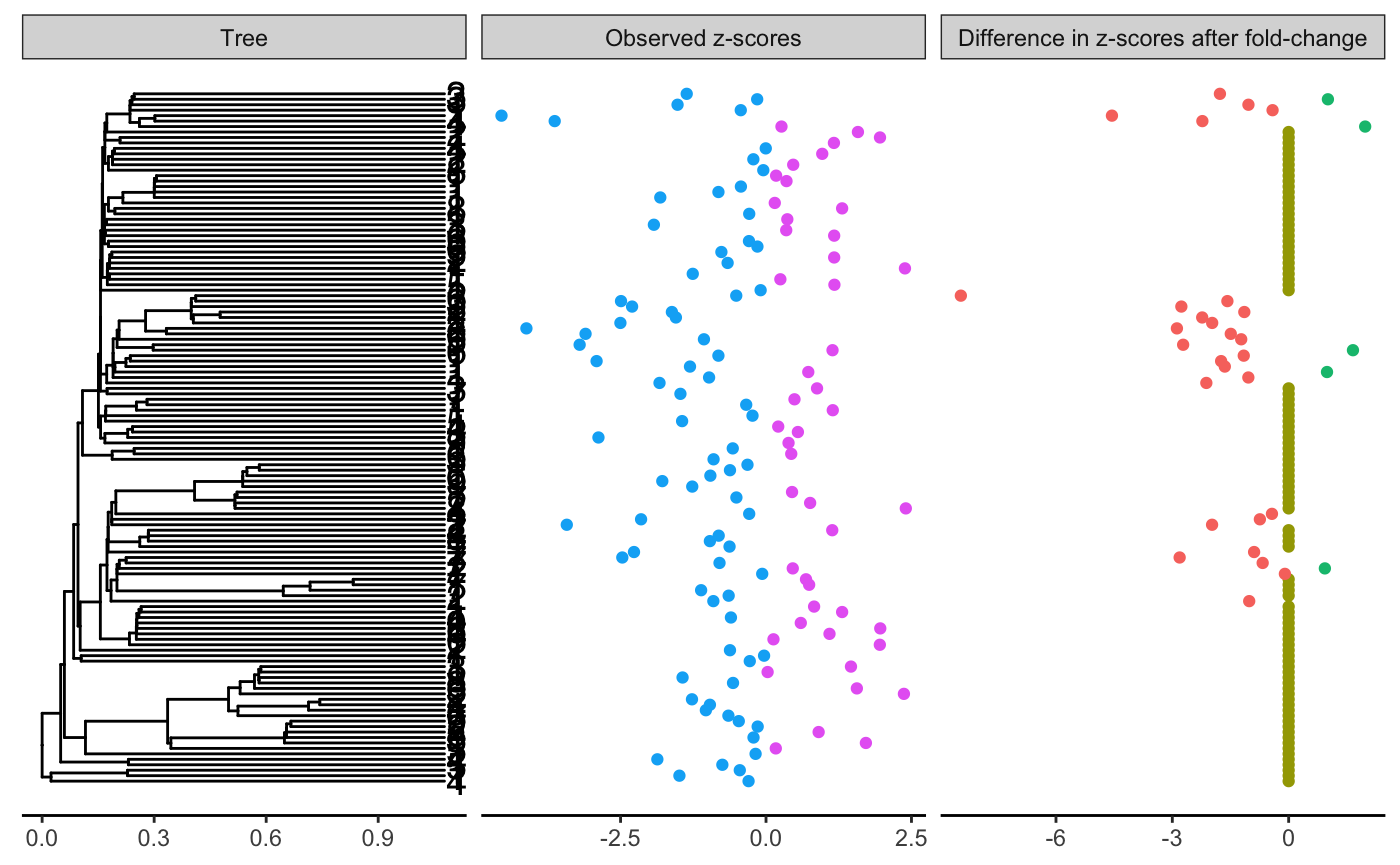
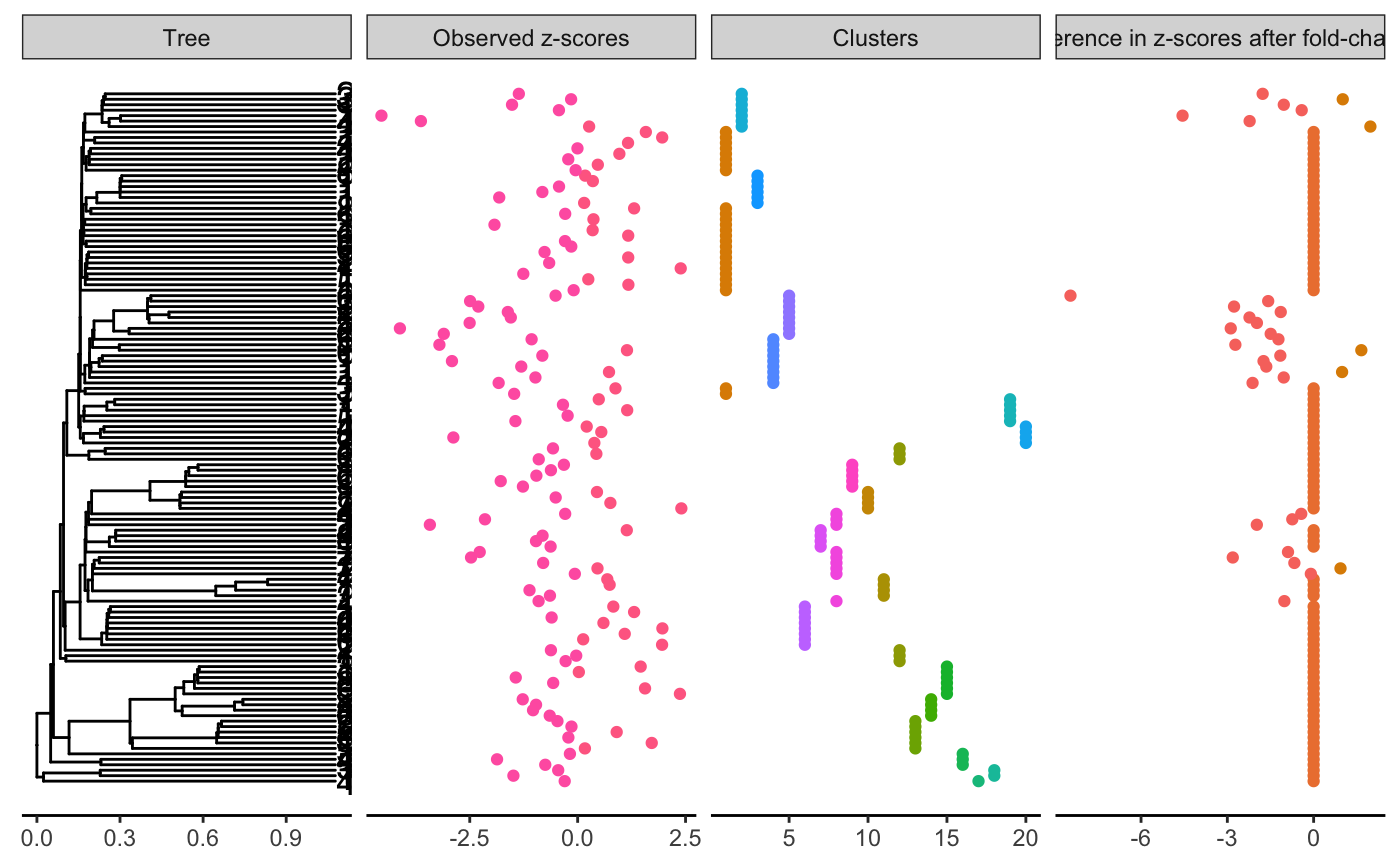
Use new functions

diff --git a/inst/docs/articles/simulations.html b/inst/docs/articles/simulations.html
@@ -323,9 +323,7 @@
 <a class="sourceLine" id="cb18-3" data-line-number="3"><span class="kw"><a href="../reference/plot_shifts.html">plot_shifts</a></span>(tree, <span class="dt">shifts =</span> <span class="ot">NA</span>, <span class="dt">obs_scores =</span> zscores_original)</a>
 <a class="sourceLine" id="cb18-4" data-line-number="4"><span class="co">#&gt; Warning: Removed 253 rows containing missing values (geom_label).</span></a></code></pre></div>
 <p><img src="simulations_files/figure-html/pvalueswofoldchange-1.png" width="700" style="display: block; margin: auto;"></p>
-<div class="sourceCode" id="cb19"><pre class="sourceCode r"><code class="sourceCode r"><a class="sourceLine" id="cb19-1" data-line-number="1">D &lt;-<span class="st"> </span><span class="kw"><a href="https://rdrr.io/r/stats/cophenetic.html">cophenetic</a></span>(tree)</a>
-<a class="sourceLine" id="cb19-2" data-line-number="2">obj &lt;-<span class="st"> </span>cluster<span class="op">::</span><span class="kw"><a href="https://rdrr.io/pkg/cluster/man/pam.html">pam</a></span>(D, <span class="dv">20</span>)</a>
-<a class="sourceLine" id="cb19-3" data-line-number="3">clustering &lt;-<span class="st"> </span>obj<span class="op">$</span>clustering</a></code></pre></div>
+<div class="sourceCode" id="cb19"><pre class="sourceCode r"><code class="sourceCode r"><a class="sourceLine" id="cb19-1" data-line-number="1">clustering &lt;-<span class="st"> </span><span class="kw"><a href="../reference/create_clusters.html">create_clusters</a></span>(tree, <span class="dt">N_clusters =</span> <span class="dv">20</span>, <span class="dt">method =</span> <span class="st">"paraphyletic"</span>)</a></code></pre></div>
 <div class="sourceCode" id="cb20"><pre class="sourceCode r"><code class="sourceCode r"><a class="sourceLine" id="cb20-1" data-line-number="1">clusters &lt;-<span class="st"> </span><span class="kw"><a href="https://dplyr.tidyverse.org/reference/sample.html">sample</a></span>(<span class="dv">10</span>, <span class="dv">4</span>)</a>
 <a class="sourceLine" id="cb20-2" data-line-number="2"><span class="kw"><a href="https://rdrr.io/r/base/table.html">table</a></span>(clustering[<span class="kw"><a href="https://rdrr.io/r/base/which.html">which</a></span>(clustering <span class="op">%in%</span><span class="st"> </span>clusters)])</a>
 <a class="sourceLine" id="cb20-3" data-line-number="3"><span class="co">#&gt; </span></a>
@@ -336,16 +334,19 @@
 <div class="sourceCode" id="cb21"><pre class="sourceCode r"><code class="sourceCode r"><a class="sourceLine" id="cb21-1" data-line-number="1">pvalues &lt;-<span class="st"> </span><span class="kw"><a href="../reference/test_wilcoxon.html">test_wilcoxon</a></span>(abund, groups)<span class="op">$</span>p.value</a>
 <a class="sourceLine" id="cb21-2" data-line-number="2">zscores &lt;-<span class="st"> </span><span class="kw"><a href="../reference/p2z.html">p2z</a></span>(pvalues)</a>
 <a class="sourceLine" id="cb21-3" data-line-number="3"><span class="kw"><a href="../reference/plot_shifts.html">plot_shifts</a></span>(tree, <span class="ot">NA</span>, <span class="dt">obs_scores =</span> zscores, </a>
-<a class="sourceLine" id="cb21-4" data-line-number="4">            <span class="dt">sup_scores =</span> <span class="kw"><a href="https://rdrr.io/r/base/list.html">list</a></span>(<span class="kw"><a href="https://rdrr.io/r/base/list.html">list</a></span>(<span class="dt">scores =</span> zscores <span class="op">-</span><span class="st"> </span>zscores_original,</a>
-<a class="sourceLine" id="cb21-5" data-line-number="5">                                   <span class="dt">title =</span> <span class="st">"Difference in z-scores after fold-change"</span>,</a>
-<a class="sourceLine" id="cb21-6" data-line-number="6">                                   <span class="dt">color =</span> <span class="kw"><a href="https://rdrr.io/r/base/character.html">as.character</a></span>(<span class="kw"><a href="https://rdrr.io/r/base/sign.html">sign</a></span>(zscores <span class="op">-</span><span class="st"> </span>zscores_original)))))</a>
-<a class="sourceLine" id="cb21-7" data-line-number="7"><span class="co">#&gt; Warning: Removed 253 rows containing missing values (geom_label).</span></a></code></pre></div>
+<a class="sourceLine" id="cb21-4" data-line-number="4">            <span class="dt">sup_scores =</span> <span class="kw"><a href="https://rdrr.io/r/base/list.html">list</a></span>(<span class="kw"><a href="https://rdrr.io/r/base/list.html">list</a></span>(<span class="dt">scores =</span> clustering,</a>
+<a class="sourceLine" id="cb21-5" data-line-number="5">                                   <span class="dt">title =</span> <span class="st">"Clusters"</span>,</a>
+<a class="sourceLine" id="cb21-6" data-line-number="6">                                   <span class="dt">color =</span> <span class="kw"><a href="https://rdrr.io/r/base/character.html">as.character</a></span>(clustering)),</a>
+<a class="sourceLine" id="cb21-7" data-line-number="7">                              <span class="kw"><a href="https://rdrr.io/r/base/list.html">list</a></span>(<span class="dt">scores =</span> zscores <span class="op">-</span><span class="st"> </span>zscores_original,</a>
+<a class="sourceLine" id="cb21-8" data-line-number="8">                                   <span class="dt">title =</span> <span class="st">"Difference in z-scores after fold-change"</span>,</a>
+<a class="sourceLine" id="cb21-9" data-line-number="9">                                   <span class="dt">color =</span> <span class="kw"><a href="https://rdrr.io/r/base/character.html">as.character</a></span>(<span class="kw"><a href="https://rdrr.io/r/base/sign.html">sign</a></span>(zscores <span class="op">-</span><span class="st"> </span>zscores_original)))))</a>
+<a class="sourceLine" id="cb21-10" data-line-number="10"><span class="co">#&gt; Warning: Removed 253 rows containing missing values (geom_label).</span></a></code></pre></div>
 <p><img src="simulations_files/figure-html/zscoressimudataset-1.png" width="700" style="display: block; margin: auto;"></p>
 <div class="sourceCode" id="cb22"><pre class="sourceCode r"><code class="sourceCode r"><a class="sourceLine" id="cb22-1" data-line-number="1"><span class="kw"><a href="https://rdrr.io/pkg/tictoc/man/tic.html">tic</a></span>()</a>
 <a class="sourceLine" id="cb22-2" data-line-number="2">estimation &lt;-<span class="st"> </span><span class="kw"><a href="../reference/estimate_shifts.html">estimate_shifts</a></span>(<span class="kw"><a href="https://rdrr.io/r/base/rep.html">rep</a></span>(<span class="dv">0</span>, N_branch), <span class="dt">zscores =</span> zscores, <span class="dt">tree =</span> tree,</a>
 <a class="sourceLine" id="cb22-3" data-line-number="3">                              <span class="dt">alpha =</span> <span class="kw"><a href="https://rdrr.io/r/base/c.html">c</a></span>(<span class="fl">0.2</span>, <span class="fl">0.5</span>, <span class="dv">1</span>, <span class="dv">2</span>, <span class="dv">5</span>), <span class="dt">method =</span> <span class="st">"shooting"</span>)</a>
 <a class="sourceLine" id="cb22-4" data-line-number="4"><span class="kw"><a href="https://rdrr.io/pkg/tictoc/man/tic.html">toc</a></span>()</a>
-<a class="sourceLine" id="cb22-5" data-line-number="5"><span class="co">#&gt; 13.23 sec elapsed</span></a>
+<a class="sourceLine" id="cb22-5" data-line-number="5"><span class="co">#&gt; 13.258 sec elapsed</span></a>
 <a class="sourceLine" id="cb22-6" data-line-number="6">estimation</a>
 <a class="sourceLine" id="cb22-7" data-line-number="7"><span class="co">#&gt; Tree is binary with 127 leafs and 252 branches</span></a>
 <a class="sourceLine" id="cb22-8" data-line-number="8"><span class="co">#&gt; Covariance matrix has been estimated from an OU with alpha = 0.5 and sigma = 1.516 </span></a>
@@ -424,13 +425,31 @@
 <a class="sourceLine" id="cb23-53" data-line-number="53"><span class="co">#&gt; 49   5.0  0.3617853        50.72135 818.4761 1237.0768       59</span></a>
 <a class="sourceLine" id="cb23-54" data-line-number="54"><span class="co">#&gt; 50   5.0  0.2168846        43.45900 871.2920 1361.9869       70</span></a></code></pre></div>
 <div class="sourceCode" id="cb24"><pre class="sourceCode r"><code class="sourceCode r"><a class="sourceLine" id="cb24-1" data-line-number="1">detected &lt;-<span class="st"> </span><span class="kw"><a href="https://rdrr.io/r/base/names.html">names</a></span>(<span class="kw"><a href="https://rdrr.io/r/base/which.html">which</a></span>(estimation<span class="op">$</span>zscores_est <span class="op">!=</span><span class="st"> </span><span class="dv">0</span>))</a>
-<a class="sourceLine" id="cb24-2" data-line-number="2">detected_bh &lt;-<span class="st"> </span><span class="kw"><a href="https://rdrr.io/r/base/names.html">names</a></span>(<span class="kw"><a href="https://rdrr.io/r/base/which.html">which</a></span>(<span class="kw"><a href="https://rdrr.io/r/stats/p.adjust.html">p.adjust</a></span>(pvalues, <span class="dt">method =</span> <span class="st">"BH"</span>) <span class="op">&lt;</span><span class="st"> </span><span class="fl">0.05</span>))</a>
-<a class="sourceLine" id="cb24-3" data-line-number="3"><span class="kw"><a href="https://rdrr.io/pkg/evabic/man/ebc_tidy.html">ebc_tidy</a></span>(detected, otus_da, <span class="dt">m =</span> <span class="kw"><a href="https://rdrr.io/r/base/length.html">length</a></span>(otu_to_kepp), <span class="dt">measures =</span> <span class="kw"><a href="https://rdrr.io/r/base/c.html">c</a></span>(<span class="st">"TPR"</span>, <span class="st">"FDR"</span>, <span class="st">"ACC"</span>, <span class="st">"F1"</span>, <span class="st">"BACC"</span>))</a>
-<a class="sourceLine" id="cb24-4" data-line-number="4"><span class="co">#&gt;   TPR  FDR       ACC        F1      BACC</span></a>
-<a class="sourceLine" id="cb24-5" data-line-number="5"><span class="co">#&gt; 1   1 0.34 0.8661417 0.7951807 0.9095745</span></a>
-<a class="sourceLine" id="cb24-6" data-line-number="6"><span class="kw"><a href="https://rdrr.io/pkg/evabic/man/ebc_tidy.html">ebc_tidy</a></span>(detected_bh, otus_da, <span class="dt">m =</span> <span class="kw"><a href="https://rdrr.io/r/base/length.html">length</a></span>(otu_to_kepp), <span class="dt">measures =</span> <span class="kw"><a href="https://rdrr.io/r/base/c.html">c</a></span>(<span class="st">"TPR"</span>, <span class="st">"FDR"</span>, <span class="st">"ACC"</span>, <span class="st">"F1"</span>, <span class="st">"BACC"</span>))</a>
-<a class="sourceLine" id="cb24-7" data-line-number="7"><span class="co">#&gt;         TPR   FDR       ACC        F1      BACC</span></a>
-<a class="sourceLine" id="cb24-8" data-line-number="8"><span class="co">#&gt; 1 0.2121212 0.125 0.7874016 0.3414634 0.6007415</span></a></code></pre></div>
+<a class="sourceLine" id="cb24-2" data-line-number="2">pvalues_bh &lt;-<span class="st"> </span><span class="kw"><a href="https://rdrr.io/r/stats/p.adjust.html">p.adjust</a></span>(pvalues, <span class="dt">method =</span> <span class="st">"BH"</span>)</a>
+<a class="sourceLine" id="cb24-3" data-line-number="3">detected_bh &lt;-<span class="st"> </span><span class="kw"><a href="https://rdrr.io/r/base/names.html">names</a></span>(<span class="kw"><a href="https://rdrr.io/r/base/which.html">which</a></span>(pvalues_bh <span class="op">&lt;</span><span class="st"> </span><span class="fl">0.05</span>))</a>
+<a class="sourceLine" id="cb24-4" data-line-number="4">mm &lt;-<span class="st"> </span><span class="kw"><a href="https://rdrr.io/r/base/c.html">c</a></span>(<span class="st">"TPR"</span>, <span class="st">"FPR"</span>, <span class="st">"FDR"</span>, <span class="st">"ACC"</span>, <span class="st">"F1"</span>, <span class="st">"BACC"</span>)</a>
+<a class="sourceLine" id="cb24-5" data-line-number="5"><span class="kw"><a href="https://rdrr.io/pkg/evabic/man/ebc_tidy.html">ebc_tidy</a></span>(detected, otus_da, <span class="dt">m =</span> <span class="kw"><a href="https://rdrr.io/r/base/length.html">length</a></span>(otu_to_kepp), <span class="dt">measures =</span> )</a>
+<a class="sourceLine" id="cb24-6" data-line-number="6"><span class="co">#&gt;   TPR       FPR  FDR       ACC        F1</span></a>
+<a class="sourceLine" id="cb24-7" data-line-number="7"><span class="co">#&gt; 1   1 0.1808511 0.34 0.8661417 0.7951807</span></a>
+<a class="sourceLine" id="cb24-8" data-line-number="8"><span class="kw"><a href="https://rdrr.io/pkg/evabic/man/ebc_tidy.html">ebc_tidy</a></span>(detected_bh, otus_da, <span class="dt">m =</span> <span class="kw"><a href="https://rdrr.io/r/base/length.html">length</a></span>(otu_to_kepp), <span class="dt">measures =</span> mm)</a>
+<a class="sourceLine" id="cb24-9" data-line-number="9"><span class="co">#&gt;         TPR       FPR   FDR       ACC        F1      BACC</span></a>
+<a class="sourceLine" id="cb24-10" data-line-number="10"><span class="co">#&gt; 1 0.2121212 0.0106383 0.125 0.7874016 0.3414634 0.6007415</span></a>
+<a class="sourceLine" id="cb24-11" data-line-number="11"><span class="kw"><a href="https://rdrr.io/pkg/evabic/man/ebc_tidy.html">ebc_tidy</a></span>(<span class="kw"><a href="https://rdrr.io/r/base/c.html">c</a></span>(), otus_da, <span class="dt">m =</span> <span class="kw"><a href="https://rdrr.io/r/base/length.html">length</a></span>(otu_to_kepp), <span class="dt">measures =</span> mm)</a>
+<a class="sourceLine" id="cb24-12" data-line-number="12"><span class="co">#&gt;   TPR FPR FDR       ACC F1 BACC</span></a>
+<a class="sourceLine" id="cb24-13" data-line-number="13"><span class="co">#&gt; 1   0   0 NaN 0.7401575  0  0.5</span></a>
+<a class="sourceLine" id="cb24-14" data-line-number="14"><span class="kw"><a href="https://rdrr.io/pkg/evabic/man/ebc_tidy.html">ebc_tidy</a></span>(otu_to_kepp, otus_da, <span class="dt">m =</span> <span class="kw"><a href="https://rdrr.io/r/base/length.html">length</a></span>(otu_to_kepp), <span class="dt">measures =</span> mm)</a>
+<a class="sourceLine" id="cb24-15" data-line-number="15"><span class="co">#&gt;   TPR FPR       FDR       ACC     F1 BACC</span></a>
+<a class="sourceLine" id="cb24-16" data-line-number="16"><span class="co">#&gt; 1   1   1 0.7401575 0.2598425 0.4125  0.5</span></a>
+<a class="sourceLine" id="cb24-17" data-line-number="17"></a>
+<a class="sourceLine" id="cb24-18" data-line-number="18"><span class="kw"><a href="https://purrr.tidyverse.org/reference/map.html">map_dfr</a></span>(<span class="kw"><a href="https://rdrr.io/r/base/list.html">list</a></span>(detected, detected_bh, <span class="kw"><a href="https://rdrr.io/r/base/c.html">c</a></span>(), otu_to_kepp), ebc_tidy, </a>
+<a class="sourceLine" id="cb24-19" data-line-number="19">        <span class="dt">detected =</span> otus_da, <span class="dt">m =</span> <span class="kw"><a href="https://rdrr.io/r/base/length.html">length</a></span>(otu_to_kepp), <span class="dt">measures =</span> mm) <span class="op">%&gt;%</span><span class="st"> </span></a>
+<a class="sourceLine" id="cb24-20" data-line-number="20"><span class="st">  </span><span class="kw"><a href="https://dplyr.tidyverse.org/reference/mutate.html">mutate</a></span>(<span class="dt">method =</span> <span class="kw"><a href="https://rdrr.io/r/base/c.html">c</a></span>(<span class="st">"zazou"</span>, <span class="st">"bh"</span>, <span class="st">"nothing"</span>, <span class="st">"everything"</span>)) <span class="op">%&gt;%</span><span class="st"> </span></a>
+<a class="sourceLine" id="cb24-21" data-line-number="21"><span class="st">  </span><span class="kw"><a href="https://dplyr.tidyverse.org/reference/select.html">select</a></span>(method, <span class="kw"><a href="https://dplyr.tidyverse.org/reference/reexports.html">everything</a></span>())</a>
+<a class="sourceLine" id="cb24-22" data-line-number="22"><span class="co">#&gt;       method       TPR       FPR       FDR       ACC        F1      BACC</span></a>
+<a class="sourceLine" id="cb24-23" data-line-number="23"><span class="co">#&gt; 1      zazou 0.6600000 0.0000000 0.0000000 0.8661417 0.7951807 0.8300000</span></a>
+<a class="sourceLine" id="cb24-24" data-line-number="24"><span class="co">#&gt; 2         bh 0.8750000 0.2184874 0.7878788 0.7874016 0.3414634 0.8282563</span></a>
+<a class="sourceLine" id="cb24-25" data-line-number="25"><span class="co">#&gt; 3    nothing       NaN 0.2598425 1.0000000 0.7401575 0.0000000       NaN</span></a>
+<a class="sourceLine" id="cb24-26" data-line-number="26"><span class="co">#&gt; 4 everything 0.2598425       NaN 0.0000000 0.2598425 0.4125000       NaN</span></a></code></pre></div>
 <div class="sourceCode" id="cb25"><pre class="sourceCode r"><code class="sourceCode r"><a class="sourceLine" id="cb25-1" data-line-number="1">ran &lt;-<span class="st"> </span><span class="kw"><a href="https://rdrr.io/r/stats/Normal.html">rnorm</a></span>(<span class="dv">127</span>)</a>
 <a class="sourceLine" id="cb25-2" data-line-number="2"><span class="kw"><a href="https://rdrr.io/r/graphics/plot.html">plot</a></span>(estimation, </a>
 <a class="sourceLine" id="cb25-3" data-line-number="3">     <span class="dt">sup_scores =</span> <span class="kw"><a href="https://rdrr.io/r/base/list.html">list</a></span>(<span class="kw"><a href="https://rdrr.io/r/base/list.html">list</a></span>(<span class="dt">scores =</span> zscores <span class="op">-</span><span class="st"> </span>zscores_original,</a>
@@ -441,34 +460,29 @@
 <a class="sourceLine" id="cb25-8" data-line-number="8">                            <span class="dt">color =</span> <span class="kw"><a href="https://rdrr.io/r/stats/p.adjust.html">p.adjust</a></span>(pvalues, <span class="dt">method =</span> <span class="st">"BH"</span>) <span class="op">&lt;</span><span class="st"> </span><span class="fl">0.05</span>)))</a>
 <a class="sourceLine" id="cb25-9" data-line-number="9"><span class="co">#&gt; Warning: Removed 247 rows containing missing values (geom_label).</span></a></code></pre></div>
 <p><img src="simulations_files/figure-html/plotswithbh-1.png" width="700" style="display: block; margin: auto;"></p>
-<div class="sourceCode" id="cb26"><pre class="sourceCode r"><code class="sourceCode r"><a class="sourceLine" id="cb26-1" data-line-number="1">df &lt;-</a>
-<a class="sourceLine" id="cb26-2" data-line-number="2"><span class="st">  </span><span class="kw"><a href="https://rdrr.io/r/base/unique.html">unique</a></span>(estimation<span class="op">$</span>zscores_est) <span class="op">%&gt;%</span></a>
-<a class="sourceLine" id="cb26-3" data-line-number="3"><span class="st">  </span><span class="kw"><a href="https://rdrr.io/r/base/c.html">c</a></span>(<span class="fl">0.1</span>) <span class="op">%&gt;%</span></a>
-<a class="sourceLine" id="cb26-4" data-line-number="4"><span class="st">  </span><span class="kw"><a href="https://tibble.tidyverse.org/reference/enframe.html">enframe</a></span>(<span class="dt">name =</span> <span class="ot">NULL</span>, <span class="dt">value =</span> <span class="st">"threshold"</span>) <span class="op">%&gt;%</span></a>
-<a class="sourceLine" id="cb26-5" data-line-number="5"><span class="st">  </span><span class="kw"><a href="https://dplyr.tidyverse.org/reference/arrange.html">arrange</a></span>(<span class="kw"><a href="https://dplyr.tidyverse.org/reference/desc.html">desc</a></span>(threshold)) <span class="op">%&gt;%</span></a>
-<a class="sourceLine" id="cb26-6" data-line-number="6"><span class="st">  </span><span class="kw"><a href="https://dplyr.tidyverse.org/reference/mutate.html">mutate</a></span>(<span class="dt">detected =</span> <span class="kw"><a href="https://purrr.tidyverse.org/reference/map.html">map</a></span>(threshold, <span class="op">~</span><span class="st"> </span><span class="kw"><a href="https://rdrr.io/r/base/names.html">names</a></span>(<span class="kw"><a href="https://rdrr.io/r/base/which.html">which</a></span>(estimation<span class="op">$</span>zscores_est <span class="op">&lt;</span><span class="st"> </span>.))),</a>
-<a class="sourceLine" id="cb26-7" data-line-number="7">         <span class="dt">eval =</span> <span class="kw"><a href="https://purrr.tidyverse.org/reference/map.html">map</a></span>(detected, ebc_tidy, otus_da, <span class="dt">m =</span> <span class="kw"><a href="https://rdrr.io/r/base/length.html">length</a></span>(otu_to_kepp),</a>
-<a class="sourceLine" id="cb26-8" data-line-number="8">                    <span class="dt">measures =</span> <span class="kw"><a href="https://rdrr.io/r/base/c.html">c</a></span>(<span class="st">"TPR"</span>, <span class="st">"TNR"</span>, <span class="st">"F1"</span>))) <span class="op">%&gt;%</span></a>
-<a class="sourceLine" id="cb26-9" data-line-number="9"><span class="st">  </span><span class="kw"><a href="https://tidyr.tidyverse.org/reference/nest.html">unnest</a></span>(eval) <span class="op">%&gt;%</span><span class="st"> </span></a>
-<a class="sourceLine" id="cb26-10" data-line-number="10"><span class="st">  </span><span class="kw"><a href="https://dplyr.tidyverse.org/reference/mutate.html">mutate</a></span>(<span class="dt">FPR =</span> <span class="dv">1</span> <span class="op">-</span><span class="st"> </span>TNR)</a>
+<div class="sourceCode" id="cb26"><pre class="sourceCode r"><code class="sourceCode r"><a class="sourceLine" id="cb26-1" data-line-number="1">df_measures_zazou &lt;-</a>
+<a class="sourceLine" id="cb26-2" data-line-number="2"><span class="st">  </span><span class="kw"><a href="https://rdrr.io/pkg/evabic/man/ebc_tidy_by_threshold.html">ebc_tidy_by_threshold</a></span>(estimation<span class="op">$</span>zscores_est, <span class="dt">true =</span> otus_da, </a>
+<a class="sourceLine" id="cb26-3" data-line-number="3">                        <span class="dt">m  =</span> <span class="kw"><a href="https://rdrr.io/r/base/length.html">length</a></span>(otu_to_kepp), <span class="dt">measures =</span> mm) <span class="op">%&gt;%</span><span class="st"> </span></a>
+<a class="sourceLine" id="cb26-4" data-line-number="4"><span class="st">  </span><span class="kw"><a href="https://dplyr.tidyverse.org/reference/mutate.html">mutate</a></span>(<span class="dt">method =</span> <span class="st">"zazou"</span>)</a>
+<a class="sourceLine" id="cb26-5" data-line-number="5">df_measures_bh &lt;-</a>
+<a class="sourceLine" id="cb26-6" data-line-number="6"><span class="st">  </span><span class="kw"><a href="https://rdrr.io/pkg/evabic/man/ebc_tidy_by_threshold.html">ebc_tidy_by_threshold</a></span>(pvalues_bh, <span class="dt">true =</span> otus_da, </a>
+<a class="sourceLine" id="cb26-7" data-line-number="7">                        <span class="dt">m  =</span> <span class="kw"><a href="https://rdrr.io/r/base/length.html">length</a></span>(otu_to_kepp), <span class="dt">measures =</span> mm)<span class="op">%&gt;%</span><span class="st"> </span></a>
+<a class="sourceLine" id="cb26-8" data-line-number="8"><span class="st">  </span><span class="kw"><a href="https://dplyr.tidyverse.org/reference/mutate.html">mutate</a></span>(<span class="dt">method =</span> <span class="st">"bh"</span>)</a>
+<a class="sourceLine" id="cb26-9" data-line-number="9"></a>
+<a class="sourceLine" id="cb26-10" data-line-number="10">df_measures &lt;-<span class="st"> </span><span class="kw"><a href="https://rdrr.io/r/base/cbind.html">rbind</a></span>(df_measures_zazou, df_measures_bh)</a>
 <a class="sourceLine" id="cb26-11" data-line-number="11"></a>
-<a class="sourceLine" id="cb26-12" data-line-number="12">df <span class="op">%&gt;%</span></a>
+<a class="sourceLine" id="cb26-12" data-line-number="12">df_measures <span class="op">%&gt;%</span></a>
 <a class="sourceLine" id="cb26-13" data-line-number="13"><span class="st">  </span><span class="kw"><a href="https://dplyr.tidyverse.org/reference/arrange.html">arrange</a></span>(FPR, TPR) <span class="op">%&gt;%</span></a>
 <a class="sourceLine" id="cb26-14" data-line-number="14"><span class="st">  </span><span class="kw"><a href="https://ggplot2.tidyverse.org/reference/ggplot.html">ggplot</a></span>() <span class="op">+</span></a>
-<a class="sourceLine" id="cb26-15" data-line-number="15"><span class="st">  </span><span class="kw"><a href="https://ggplot2.tidyverse.org/reference/aes.html">aes</a></span>(<span class="dt">x =</span> FPR, <span class="dt">y =</span> TPR) <span class="op">+</span></a>
+<a class="sourceLine" id="cb26-15" data-line-number="15"><span class="st">  </span><span class="kw"><a href="https://ggplot2.tidyverse.org/reference/aes.html">aes</a></span>(<span class="dt">x =</span> FPR, <span class="dt">y =</span> TPR, <span class="dt">color =</span> method) <span class="op">+</span></a>
 <a class="sourceLine" id="cb26-16" data-line-number="16"><span class="st">  </span><span class="kw"><a href="https://ggplot2.tidyverse.org/reference/geom_point.html">geom_point</a></span>() <span class="op">+</span></a>
-<a class="sourceLine" id="cb26-17" data-line-number="17"><span class="st">  </span><span class="kw"><a href="https://ggplot2.tidyverse.org/reference/geom_path.html">geom_line</a></span>() <span class="op">+</span></a>
-<a class="sourceLine" id="cb26-18" data-line-number="18"><span class="st">  </span><span class="kw"><a href="https://ggplot2.tidyverse.org/reference/geom_text.html">geom_label</a></span>(<span class="kw"><a href="https://ggplot2.tidyverse.org/reference/aes.html">aes</a></span>(<span class="dt">label =</span> <span class="kw"><a href="https://rdrr.io/r/base/Round.html">round</a></span>(threshold, <span class="dv">2</span>)))</a></code></pre></div>
-<p><img src="simulations_files/figure-html/curves-1.png" width="700" style="display: block; margin: auto;"></p>
+<a class="sourceLine" id="cb26-17" data-line-number="17"><span class="st">  </span><span class="kw"><a href="https://ggplot2.tidyverse.org/reference/geom_path.html">geom_line</a></span>()</a></code></pre></div>
+<p><img src="simulations_files/figure-html/AUC-1.png" width="700" style="display: block; margin: auto;"></p>
 <div class="sourceCode" id="cb27"><pre class="sourceCode r"><code class="sourceCode r"><a class="sourceLine" id="cb27-1" data-line-number="1"></a>
-<a class="sourceLine" id="cb27-2" data-line-number="2">df <span class="op">%&gt;%</span></a>
-<a class="sourceLine" id="cb27-3" data-line-number="3"><span class="st">  </span><span class="kw"><a href="https://dplyr.tidyverse.org/reference/arrange.html">arrange</a></span>(threshold, F1) <span class="op">%&gt;%</span></a>
-<a class="sourceLine" id="cb27-4" data-line-number="4"><span class="st">  </span><span class="kw"><a href="https://ggplot2.tidyverse.org/reference/ggplot.html">ggplot</a></span>() <span class="op">+</span></a>
-<a class="sourceLine" id="cb27-5" data-line-number="5"><span class="st">  </span><span class="kw"><a href="https://ggplot2.tidyverse.org/reference/aes.html">aes</a></span>(<span class="dt">x =</span> threshold, <span class="dt">y =</span> F1) <span class="op">+</span></a>
-<a class="sourceLine" id="cb27-6" data-line-number="6"><span class="st">  </span><span class="kw"><a href="https://ggplot2.tidyverse.org/reference/geom_point.html">geom_point</a></span>() <span class="op">+</span></a>
-<a class="sourceLine" id="cb27-7" data-line-number="7"><span class="st">  </span><span class="kw"><a href="https://ggplot2.tidyverse.org/reference/geom_path.html">geom_line</a></span>() <span class="op">+</span></a>
-<a class="sourceLine" id="cb27-8" data-line-number="8"><span class="st">  </span><span class="kw"><a href="https://ggplot2.tidyverse.org/reference/geom_text.html">geom_label</a></span>(<span class="kw"><a href="https://ggplot2.tidyverse.org/reference/aes.html">aes</a></span>(<span class="dt">label =</span> <span class="kw"><a href="https://rdrr.io/r/base/Round.html">round</a></span>(threshold, <span class="dv">2</span>)))</a></code></pre></div>
-<p><img src="simulations_files/figure-html/curves-2.png" width="700" style="display: block; margin: auto;"></p>
+<a class="sourceLine" id="cb27-2" data-line-number="2"><span class="kw"><a href="https://rdrr.io/pkg/evabic/man/ebc_AUC.html">ebc_AUC</a></span>(estimation<span class="op">$</span>zscores_est, <span class="dt">true =</span> otus_da, <span class="dt">m  =</span> <span class="kw"><a href="https://rdrr.io/r/base/length.html">length</a></span>(otu_to_kepp))</a>
+<a class="sourceLine" id="cb27-3" data-line-number="3"><span class="co">#&gt; [1] 0.9534172</span></a>
+<a class="sourceLine" id="cb27-4" data-line-number="4"><span class="kw"><a href="https://rdrr.io/pkg/evabic/man/ebc_AUC.html">ebc_AUC</a></span>(pvalues_bh, <span class="dt">true =</span> otus_da, <span class="dt">m  =</span> <span class="kw"><a href="https://rdrr.io/r/base/length.html">length</a></span>(otu_to_kepp))</a>
+<a class="sourceLine" id="cb27-5" data-line-number="5"><span class="co">#&gt; [1] 0.8083495</span></a></code></pre></div>
 </div>
   </div>
 

diff --git a/inst/docs/articles/alcohol.html b/inst/docs/articles/alcohol.html
@@ -142,7 +142,7 @@
 <a class="sourceLine" id="cb7-3" data-line-number="3">                              <span class="dt">lambda =</span> <span class="dv">2</span>, <span class="dt">tree =</span> tree, <span class="dt">alpha =</span> <span class="fl">0.1</span>,</a>
 <a class="sourceLine" id="cb7-4" data-line-number="4">                              <span class="dt">method =</span> <span class="st">"L-BFGS-B"</span>)</a>
 <a class="sourceLine" id="cb7-5" data-line-number="5"><span class="kw"><a href="https://rdrr.io/pkg/tictoc/man/tic.html">toc</a></span>()</a>
-<a class="sourceLine" id="cb7-6" data-line-number="6"><span class="co">#&gt; 169.464 sec elapsed</span></a>
+<a class="sourceLine" id="cb7-6" data-line-number="6"><span class="co">#&gt; 197.45 sec elapsed</span></a>
 <a class="sourceLine" id="cb7-7" data-line-number="7">est_lbfgsb</a>
 <a class="sourceLine" id="cb7-8" data-line-number="8"><span class="co">#&gt; Tree is not binary with 949 leafs and 1890 branches</span></a>
 <a class="sourceLine" id="cb7-9" data-line-number="9"><span class="co">#&gt; Covariance matrix has been estimated from an OU with alpha = 0.1 and sigma = 2.307 </span></a>
@@ -172,7 +172,7 @@
 <a class="sourceLine" id="cb8-3" data-line-number="3">                                <span class="dt">lambda =</span> <span class="dv">2</span>, <span class="dt">tree =</span> tree, <span class="dt">alpha =</span> <span class="fl">0.1</span>,</a>
 <a class="sourceLine" id="cb8-4" data-line-number="4">                                <span class="dt">method =</span> <span class="st">"shooting"</span>)</a>
 <a class="sourceLine" id="cb8-5" data-line-number="5"><span class="kw"><a href="https://rdrr.io/pkg/tictoc/man/tic.html">toc</a></span>() <span class="co"># 10 times faster</span></a>
-<a class="sourceLine" id="cb8-6" data-line-number="6"><span class="co">#&gt; 10.478 sec elapsed</span></a>
+<a class="sourceLine" id="cb8-6" data-line-number="6"><span class="co">#&gt; 11.81 sec elapsed</span></a>
 <a class="sourceLine" id="cb8-7" data-line-number="7">est_shooting <span class="co"># similar results</span></a>
 <a class="sourceLine" id="cb8-8" data-line-number="8"><span class="co">#&gt; Tree is not binary with 949 leafs and 1890 branches</span></a>
 <a class="sourceLine" id="cb8-9" data-line-number="9"><span class="co">#&gt; Covariance matrix has been estimated from an OU with alpha = 0.1 and sigma = 2.307 </span></a>

diff --git a/inst/docs/articles/chlamydiae.html b/inst/docs/articles/chlamydiae.html
@@ -130,7 +130,7 @@
 <a class="sourceLine" id="cb5-3" data-line-number="3">                              <span class="dt">lambda =</span> <span class="fl">0.1</span>, <span class="dt">tree =</span> tree, <span class="dt">alpha =</span> <span class="dv">1</span>,</a>
 <a class="sourceLine" id="cb5-4" data-line-number="4">                              <span class="dt">method =</span> <span class="st">"L-BFGS-B"</span>)</a>
 <a class="sourceLine" id="cb5-5" data-line-number="5"><span class="kw"><a href="https://rdrr.io/pkg/tictoc/man/tic.html">toc</a></span>()</a>
-<a class="sourceLine" id="cb5-6" data-line-number="6"><span class="co">#&gt; 0.009 sec elapsed</span></a>
+<a class="sourceLine" id="cb5-6" data-line-number="6"><span class="co">#&gt; 0.016 sec elapsed</span></a>
 <a class="sourceLine" id="cb5-7" data-line-number="7">est_lbfgsb</a>
 <a class="sourceLine" id="cb5-8" data-line-number="8"><span class="co">#&gt; Tree is binary with 21 leafs and 40 branches</span></a>
 <a class="sourceLine" id="cb5-9" data-line-number="9"><span class="co">#&gt; Covariance matrix has been estimated from an OU with alpha = 1 and sigma = 7.198 </span></a>
@@ -161,7 +161,7 @@
 <a class="sourceLine" id="cb6-4" data-line-number="4">                                <span class="dt">lambda =</span> <span class="fl">0.1</span>, <span class="dt">tree =</span> tree, <span class="dt">alpha =</span> <span class="dv">1</span>,</a>
 <a class="sourceLine" id="cb6-5" data-line-number="5">                                <span class="dt">method =</span> <span class="st">"shooting"</span>)</a>
 <a class="sourceLine" id="cb6-6" data-line-number="6"><span class="kw"><a href="https://rdrr.io/pkg/tictoc/man/tic.html">toc</a></span>()</a>
-<a class="sourceLine" id="cb6-7" data-line-number="7"><span class="co">#&gt; 0.051 sec elapsed</span></a>
+<a class="sourceLine" id="cb6-7" data-line-number="7"><span class="co">#&gt; 0.078 sec elapsed</span></a>
 <a class="sourceLine" id="cb6-8" data-line-number="8">est_shooting</a>
 <a class="sourceLine" id="cb6-9" data-line-number="9"><span class="co">#&gt; Tree is binary with 21 leafs and 40 branches</span></a>
 <a class="sourceLine" id="cb6-10" data-line-number="10"><span class="co">#&gt; Covariance matrix has been estimated from an OU with alpha = 1 and sigma = 7.198 </span></a>
